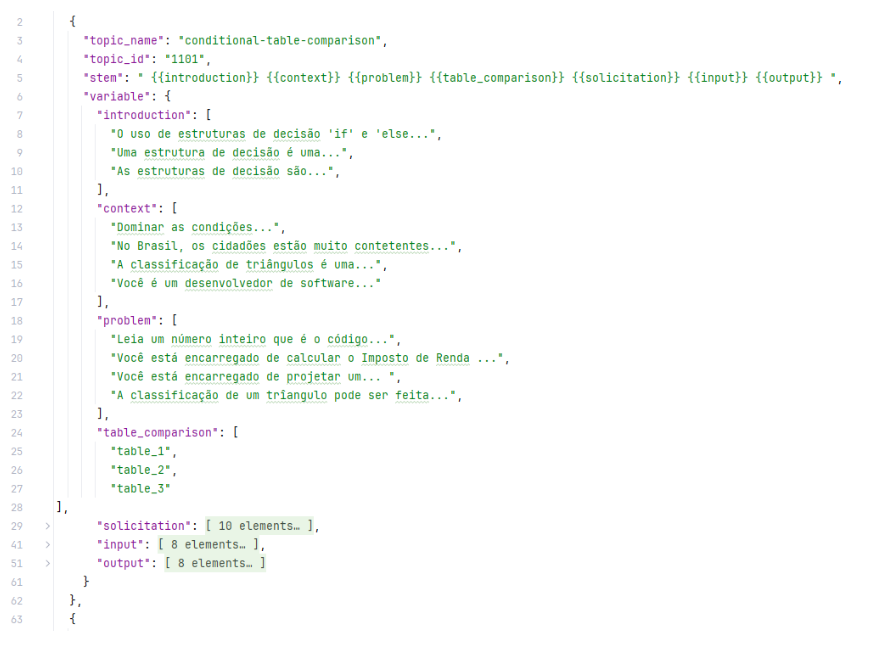
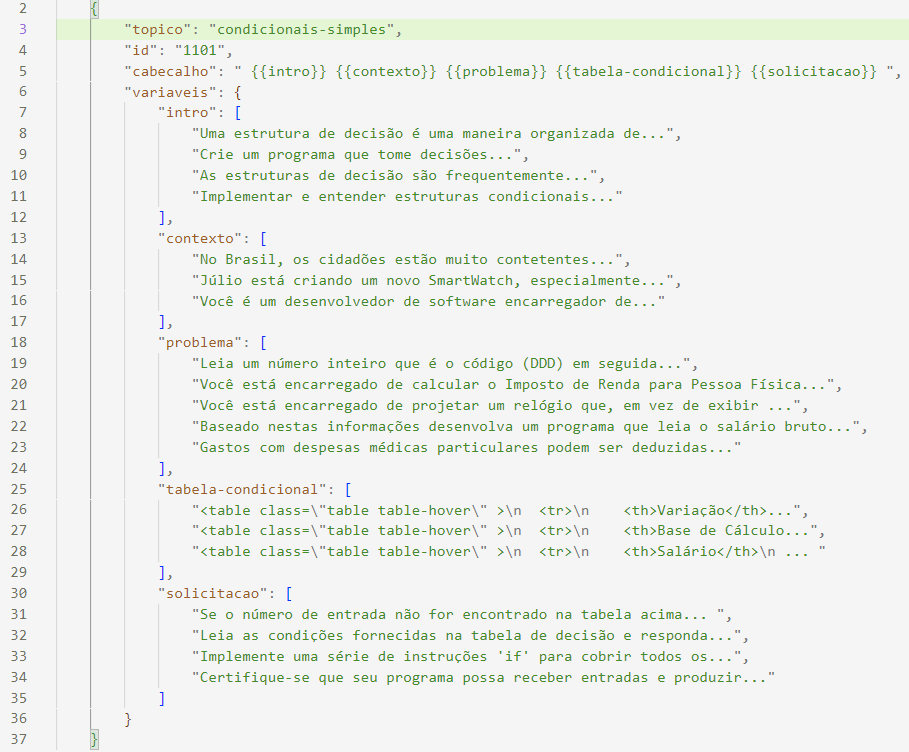
cap proposta de ferramenta

diff --git a/capitulos/cap6-proposta-de-ferramenta.tex b/capitulos/cap6-proposta-de-ferramenta.tex
@@ -4,7 +4,7 @@ Nesta seção, será apresentada uma ferramenta cujo objetivo é automatizar a g
 
 \section{JSON de Templates}
 
-O primeiro componente é o JSON de Template, ilustrado na Figura \ref{fig:json-de-templates}, no qual o enunciado geral (\textit{stem}) descreve a estrutura padrão que será aplicada em todas as questões derivadas. Nele, é definido as partes fixas do enunciado e a forma como os elementos variáveis serão combinados para formar a questão. Em seguida, cada categoria de variáveis contém uma lista de opções textuais ou numéricas que podem assumir diferentes valores de acordo com a necessidade, permitindo a criação de múltiplas versões de um mesmo problema.
+O primeiro componente é o JSON de Template, ilustrado na Figura \ref{fig:json-de-templates}, no qual o enunciado geral (\textit{cabeçalho}) descreve a estrutura padrão que será aplicada em todas as questões derivadas. Nele, é definido as partes fixas do enunciado e a forma como os elementos variáveis serão combinados para formar a questão. Em seguida, cada categoria de variáveis contém uma lista de opções textuais ou numéricas que podem assumir diferentes valores de acordo com a necessidade, permitindo a criação de múltiplas versões de um mesmo problema.
 
 
 \begin{figure}[ht]
@@ -43,5 +43,22 @@ Embora a configuração inicial dos templates exija um certo esforço de elabora
 
 
 Na Figura \ref{fig:ferramenta}, ilustra o momento em que o estudante acessa o assunto escolhido, recebe a questão de forma dinâmica e submete seu código para correção. Observe como a ferramenta automatiza o processo de geração de questões e avaliação. Apesar de a configuração inicial dos templates exigir um esforço de elaboração, o investimento é compensado pela possibilidade de reaproveitar as questões em diferentes contextos, reduzindo a necessidade de criar novos problemas a cada turma ou semestre. 
+
+ADICIONAR SECAO DE LIMITACOES
+
+COLOCAR LINK DO GIT
+
+ADICIONAR IMAGENS DA FERRAMENTA
+
+QUAL CONTEUDO TRABALHA BEM E QUAL N'AO TRABALHA  (TEXTOS, VARIA;'AO DE IMAGENS PRECISA MELHORAR
+
+ADICIONAR MODULO ARQUITETURAL DO PROTOTIPO
+
+RESPONDER AS QUEST'OES DE PESQUISA. 
+
+MOSTRAR QUE O MULTICAMDAS VAI FACILITAR A VIDA DO PROFESSOR
+
+TRADUZIR TODAS AS FIGURAS PARA PORTUGUES
+
 
  

diff --git a/DissertacaoPPgSC.tex b/DissertacaoPPgSC.tex
@@ -165,7 +165,7 @@
 
 
 % Capitulo 5: Proposta Conceitual
-\input{capitulos/cap5-proposta-conceitual.tex}
+% \input{capitulos/cap5-proposta-conceitual.tex}
 
   % Capitulo 5: Quinto capítulo (arquivo capitulos/capitulo5.tex)
   %\input{capitulos/Cap5_DesenhosAnimacoes.tex}
